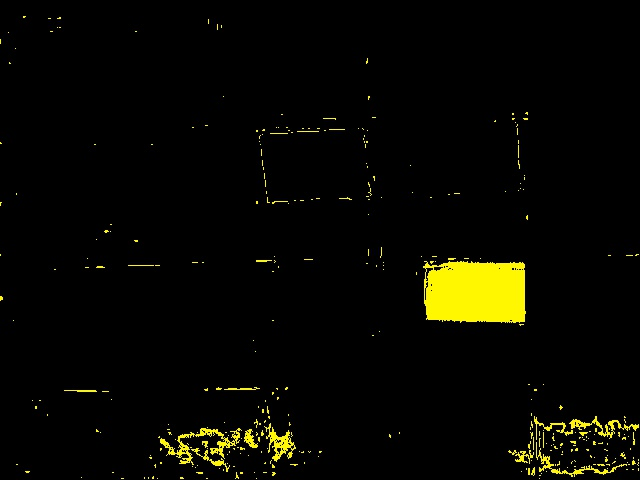
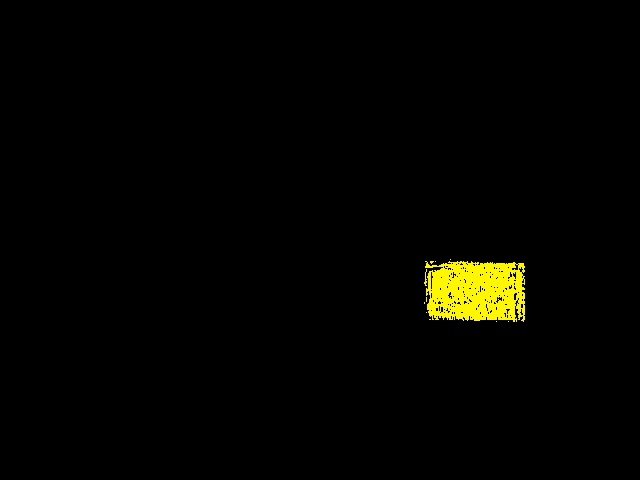
Added morphological transformations

diff --git a/ex1/main.py b/ex1/main.py
@@ -1,36 +1,47 @@
 import cv2
 import numpy as np
 
+# defining the colors range and the value to be painted
 colors = [
           (np.array([50, 50, 50]), np.array([60, 255, 255]), (60, 255, 255)),  # green
           (np.array([100, 50, 50]), np.array([140, 255, 255]), (120, 255, 255)),  # blue
-          (np.array([27, 50, 50]), np.array([29, 255, 255]), (29, 255, 255)),   # yellow
-          (np.array([7, 50, 50]), np.array([12, 255, 255]), (12, 255, 255)),  # orange
-          (np.array([2, 0, 0]), np.array([4, 255, 255]), (145, 255, 255)),   # pink
-          (np.array([4, 0, 0]), np.array([7, 255, 255]), (0, 225, 143))  
+          (np.array([27, 190, 100]), np.array([29, 255, 255]), (29, 255, 255)),   # yellow
+          (np.array([7, 200, 200]), np.array([12, 255, 255]), (12, 255, 255)),  # orange
+          (np.array([2, 150, 150]), np.array([4, 255, 255]), (145, 255, 255)),   # pink
+          (np.array([5, 170, 130]), np.array([7, 255, 255]), (0, 225, 143))  # brown
          ]
 
 if __name__ == '__main__':
     img_name = 'cores.jpeg'
+    # loading the image
     img = cv2.imread(img_name)
-    print(img[300,480])
+    # converting the color space from bgr to hsv
     hsv = cv2.cvtColor(img, cv2.COLOR_BGR2HSV)
-    print(hsv[462,160])
+    print(hsv[420][480])
     temp = []
     i = 0
     for (lower, upper, color) in colors:
         aux = img
+        # creating and painting a temp image
         aux = cv2.cvtColor(aux, cv2.COLOR_BGR2HSV)
         cv2.rectangle(aux, (0, 0), (479, 639), color, 1000)
         # Threshold the HSV image
         mask = cv2.inRange(hsv, lower, upper)
-        # Bitwise-AND mask and original image
+        # painting the area selected by the mask
         res = cv2.bitwise_and(aux, aux, mask=mask)
         temp.append(res)
-        cv2.imwrite('temp' + str(i) + '.jpg', cv2.cvtColor(res, cv2.COLOR_HSV2BGR))
+        # writing the partial results to a file
+        cv2.imwrite('temp' + str(i) + '.jpg', cv2.cvtColor(res,
+                                                           cv2.COLOR_HSV2BGR))
         i += 1
     out = temp[0]
+    # joining all the partial results
     for image in temp:
         out = cv2.bitwise_or(out, image)
+    kernel = np.ones((3, 3), np.uint8)
+    out = cv2.dilate(out, kernel, iterations=1)
+    out = cv2.erode(out, kernel, iterations=3)
+    out = cv2.dilate(out, kernel, iterations=6)
     img = cv2.cvtColor(out, cv2.COLOR_HSV2BGR)
+    # writing the final result to a file
     cv2.imwrite('cores2.jpg', img)
